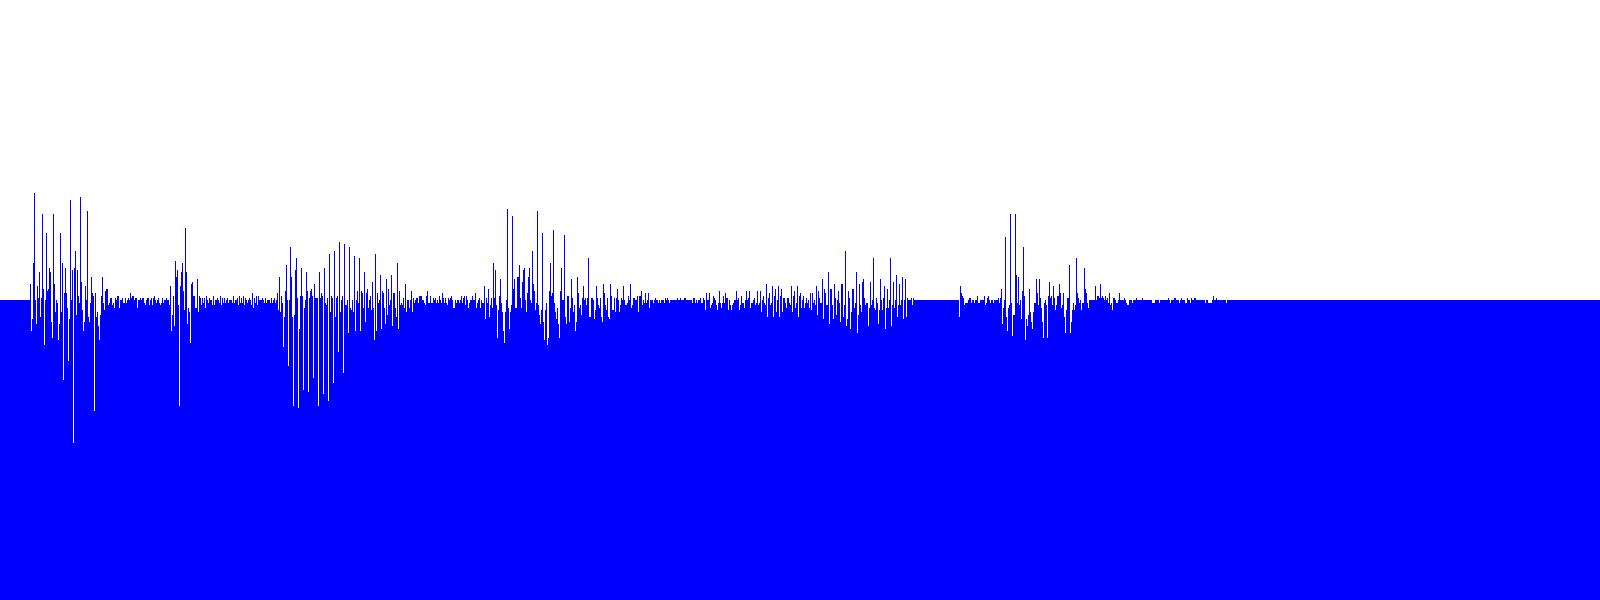
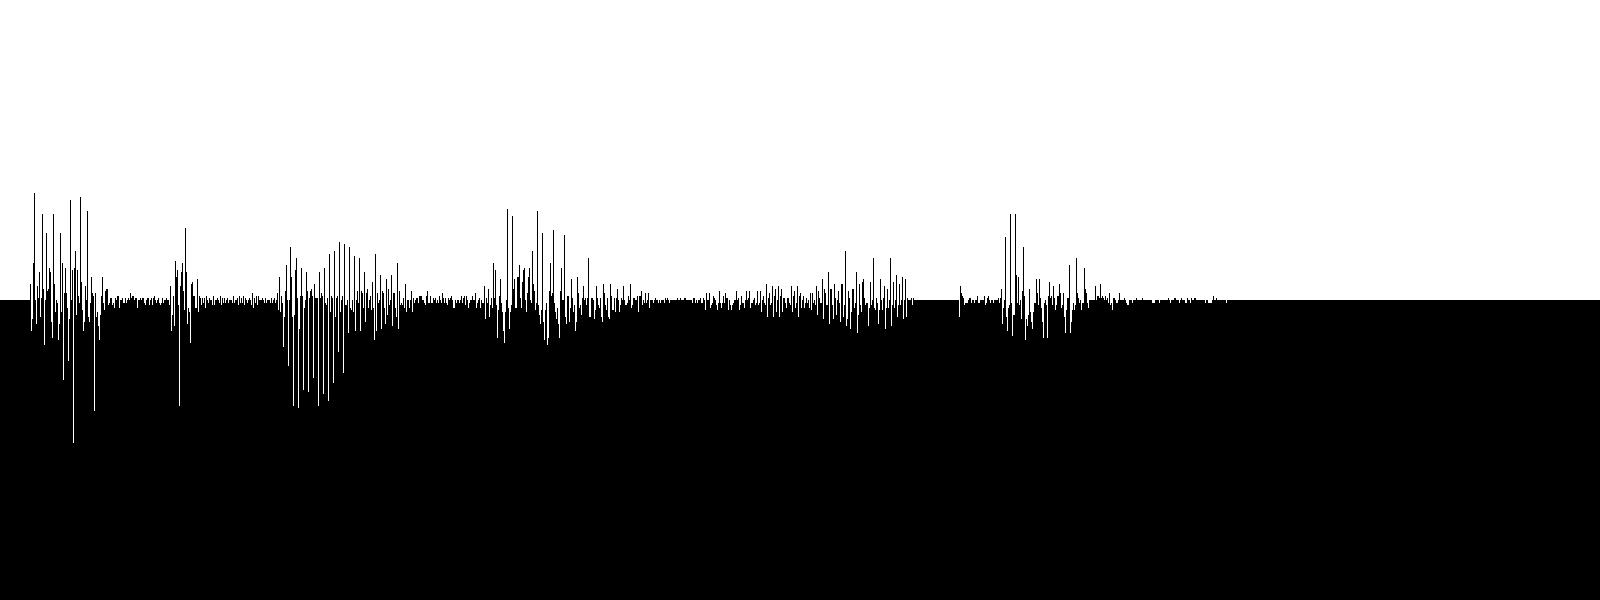
depiction colours

diff --git a/image_test.go b/image_test.go
@@ -16,7 +16,7 @@ func TestImagingSine(t *testing.T) {
 		panic(err)
 	}
 	defer file.Close()
-	png.Encode(file, Plan9PalettedImage{NewDepiction(Multiplex{Sine{UnitX}, Pulse{UnitX}},800,600)})
+	png.Encode(file, Plan9PalettedImage{NewDepiction(Multiplex{Sine{UnitX}, Pulse{UnitX}},800,600,color.RGBA{255,255,255,255},color.RGBA{0,0,0,0})})
 }
 func TestImaging(t *testing.T) {
 	stream, err := os.Open("M1F1-uint8-AFsp.wav")
@@ -24,9 +24,6 @@ func TestImaging(t *testing.T) {
 		panic(err)
 	}
 	noise, err := Decode(stream)
-	aboveColour = color.RGBA{0,0,255,255}
-	defer func(){aboveColour = color.RGBA{0,0,0,0}}()
-
 	defer stream.Close()
 	file, err := os.Create("./test output/M1F1-uint8-AFsp.jpeg")
 	if err != nil {
@@ -34,7 +31,7 @@ func TestImaging(t *testing.T) {
 	}
 	defer file.Close()
 //	png.Encode(wb, Plan9PalettedImage{NewFunctionImage(Pulse{UnitX*4}},3200,300)})   // first second
-	jpeg.Encode(file, Plan9PalettedImage{NewDepiction(noise[0],int(noise[0].MaxX()/UnitX*800),600)},nil)    // 800 pixels per second width
+	jpeg.Encode(file, Plan9PalettedImage{NewDepiction(noise[0],int(noise[0].MaxX()/UnitX*800),600,color.RGBA{255,255,255,255},color.RGBA{0,0,0,0})},nil)    // 800 pixels per second width
 }
 func TestI(t *testing.T) {
 	stream, err := os.Open("M1F1-uint8-AFsp.wav")
@@ -49,14 +46,82 @@ func TestI(t *testing.T) {
 	}
 	defer file.Close()
 	m := image.NewRGBA(image.Rect(0, -300, 800, 300))
-	belowColour = color.RGBA{255,0,0,255}
-	src:= Plan9PalettedImage{NewDepiction(noise[0],800,600)}
+	src:= Plan9PalettedImage{NewDepiction(noise[0],800,600,color.RGBA{255,0,0,255},color.RGBA{0,0,0,0})}
 	draw.Draw(m, m.Bounds(),src, src.Bounds().Min, draw.Over)
-	aboveColour = color.RGBA{0,0,0,0}
-	belowColour = color.RGBA{0,255,255,127}
-	src2:= Plan9PalettedImage{NewDepiction(noise[1],800,600)}
+	src2:= Plan9PalettedImage{NewDepiction(noise[1],800,600, color.RGBA{0,255,255,127},color.RGBA{0,0,0,0})}
 	draw.Draw(m, m.Bounds(),src2, src2.Bounds().Min, draw.Over)
 	jpeg.Encode(file, m,nil)
 }
 
+
+/*  Hal3 Sat Feb 27 18:00:58 GMT 2016 go version go1.5.1 linux/amd64
+=== RUN   TestNoise
+    23.94%   -52.49%     8.21%    -9.87%   -74.46%   -68.54%   -31.13%   -28.89%    11.03%    43.01%   -71.97%   -35.88%   -58.86%    47.80%    21.68%   -34.58%   -66.41%    10.38%     4.28%   -14.14%   -17.82%   -31.24%    22.84%   -21.90%    17.72%    23.27%    38.15%    65.67%   -72.58%   -66.54%   -33.93%     4.60%   -42.08%   -36.43%   -48.60%   -10.65%   -17.75%    25.50%    23.76%   -87.69%
+--- PASS: TestNoise (0.99s)
+=== RUN   TestBitPulses
+   100.00%   100.00%   100.00%     0.00%   100.00%   100.00%   100.00%     0.00%   100.00%   100.00%   100.00%     0.00%   100.00%   100.00%   100.00%     0.00%   100.00%   100.00%   100.00%     0.00%   100.00%   100.00%   100.00%     0.00%   100.00%   100.00%   100.00%     0.00%   100.00%   100.00%   100.00%     0.00%     0.00%     0.00%     0.00%     0.00%     0.00%     0.00%     0.00%     0.00%
+--- PASS: TestBitPulses (0.00s)
+=== RUN   TestSaveLoad
+signals.Multiplex{signals.Sine{Cycle:1000000}, signals.Constant{Constant:4611686018427387392}}
+--- PASS: TestSaveLoad (0.00s)
+=== RUN   TestSaveWav
+--- PASS: TestSaveWav (0.04s)
+=== RUN   TestLoad
+1
+--- PASS: TestLoad (0.01s)
+=== RUN   TestLoadChannels
+2
+--- PASS: TestLoadChannels (0.07s)
+=== RUN   TestStackPCMs
+--- PASS: TestStackPCMs (0.51s)
+=== RUN   TestMultiplexTones
+--- PASS: TestMultiplexTones (0.17s)
+=== RUN   TestSaveLoadSave
+--- PASS: TestSaveLoadSave (0.21s)
+=== RUN   TestPiping
+--- PASS: TestPiping (0.02s)
+=== RUN   TestImagingSine
+--- PASS: TestImagingSine (0.30s)
+=== RUN   TestImaging
+--- PASS: TestImaging (0.18s)
+=== RUN   TestI
+--- PASS: TestI (0.18s)
+=== RUN   TestSquare
+   100.00%   100.00%   100.00%   100.00%   100.00%  -100.00%  -100.00%  -100.00%  -100.00%  -100.00%   100.00%   100.00%   100.00%   100.00%   100.00%  -100.00%  -100.00%  -100.00%  -100.00%  -100.00%
+--- PASS: TestSquare (0.00s)
+=== RUN   TestPulse
+   100.00%   100.00%   100.00%   100.00%   100.00%   100.00%   100.00%   100.00%   100.00%   100.00%   100.00%     0.00%     0.00%     0.00%     0.00%     0.00%     0.00%     0.00%     0.00%     0.00%
+--- PASS: TestPulse (0.00s)
+=== RUN   TestRamp
+     0.00%    10.00%    20.00%    30.00%    40.00%    50.00%    60.00%    70.00%    80.00%    90.00%   100.00%   100.00%   100.00%   100.00%   100.00%   100.00%   100.00%   100.00%   100.00%   100.00%
+   100.00%    90.00%    80.00%    70.00%    60.00%    50.00%    40.00%    30.00%    20.00%    10.00%     0.00%     0.00%     0.00%     0.00%     0.00%     0.00%     0.00%     0.00%     0.00%     0.00%
+--- PASS: TestRamp (0.00s)
+=== RUN   TestSine
+     0.00%    38.27%    70.71%    92.39%   100.00%    92.39%    70.71%    38.27%     0.00%   -38.27%   -70.71%   -92.39%  -100.00%   -92.39%   -70.71%   -38.27%    -0.00%    38.27%    70.71%    92.39%   100.00%    92.39%    70.71%    38.27%     0.00%   -38.27%   -70.71%   -92.39%  -100.00%   -92.39%   -70.71%   -38.27%
+--- PASS: TestSine (0.00s)
+=== RUN   TestSigmoid
+    11.92%    13.01%    14.19%    15.45%    16.80%    18.24%    19.78%    21.42%    23.15%    24.97%    26.89%    28.91%    31.00%    33.18%    35.43%    37.75%    40.13%    42.56%    45.02%    47.50%    50.00%    52.50%    54.98%    57.44%    59.87%    62.25%    64.57%    66.82%    69.00%    71.09%    73.11%    75.03%    76.85%    78.58%    80.22%    81.76%    83.20%    84.55%    85.81%    86.99%
+--- PASS: TestSigmoid (0.00s)
+=== RUN   TestADSREnvelope
+     0.00%    10.00%    20.00%    30.00%    40.00%    50.00%    60.00%    70.00%    80.00%    90.00%   100.00%    95.00%    90.00%    85.00%    80.00%    75.00%    70.00%    65.00%    60.00%    55.00%    50.00%    50.00%    50.00%    50.00%    50.00%    50.00%    50.00%    50.00%    50.00%    50.00%    50.00%    45.00%    40.00%    35.00%    30.00%    25.00%    20.00%    15.00%    10.00%     5.00%     0.00%     0.00%     0.00%     0.00%     0.00%     0.00%     0.00%     0.00%     0.00%     0.00%
+--- PASS: TestADSREnvelope (0.00s)
+=== RUN   TestReflect
+   100.00%    90.00%    80.00%    70.00%    60.00%    50.00%    40.00%    30.00%    20.00%    10.00%     0.00%     5.00%    10.00%    15.00%    20.00%    25.00%    30.00%    35.00%    40.00%    45.00%    50.00%    50.00%    50.00%    50.00%    50.00%    50.00%    50.00%    50.00%    50.00%    50.00%    50.00%    55.00%    60.00%    65.00%    70.00%    75.00%    80.00%    85.00%    90.00%    95.00%   100.00%   100.00%   100.00%   100.00%   100.00%   100.00%   100.00%   100.00%   100.00%   100.00%
+--- PASS: TestReflect (0.00s)
+=== RUN   TestMulti
+     0.00%     0.79%     3.12%     6.90%    11.98%    18.16%    25.20%    32.81%    40.68%    48.48%    55.90%    62.61%    68.32%    72.75%    75.69%    76.94%    76.40%    73.99%    69.72%    63.65%    55.90%    46.66%    36.16%    24.67%    12.51%     0.00%   -12.51%   -24.67%   -36.16%   -46.66%   -55.90%   -63.65%   -69.72%   -73.99%   -76.40%   -76.94%   -75.69%   -72.75%   -68.32%   -62.61%   -55.90%   -48.48%   -40.68%   -32.81%   -25.20%   -18.16%   -11.98%    -6.90%    -3.12%    -0.79%
+--- PASS: TestMulti (0.00s)
+=== RUN   TestStack
+     0.00%     9.41%    18.70%    27.78%    36.52%    44.84%    52.63%    59.81%    66.30%    72.03%    76.94%    80.99%    84.13%    86.35%    87.64%    88.00%    87.46%    86.03%    83.77%    80.72%    76.94%    72.52%    67.52%    62.04%    56.17%    50.00%    43.63%    37.17%    30.71%    24.34%    18.16%    12.26%     6.72%     1.60%    -3.02%    -7.10%   -10.59%   -13.45%   -15.67%   -17.24%   -18.16%   -18.45%   -18.13%   -17.24%   -15.82%   -13.94%   -11.65%    -9.04%    -6.17%    -3.13%
+--- PASS: TestStack (0.00s)
+=== RUN   TestTrigger
+    67.00%    77.00%    87.00%    97.00%    96.50%    91.50%    86.50%    81.50%    76.50%    71.50%    66.50%    61.50%    56.50%    51.50%    50.00%    50.00%    50.00%    50.00%    50.00%    50.00%    50.00%    50.00%    50.00%    50.00%    46.50%    41.50%    36.50%    31.50%    26.50%    21.50%    16.50%    11.50%     6.50%     1.50%     0.00%     0.00%     0.00%     0.00%     0.00%     0.00%     0.00%     0.00%     0.00%     0.00%     0.00%     0.00%     0.00%     0.00%     0.00%     0.00%
+     0.67s
+    66.50%    61.50%    56.50%    51.50%    50.00%    50.00%    50.00%    50.00%    50.00%    50.00%    50.00%    50.00%    50.00%    50.00%    46.50%    41.50%    36.50%    31.50%    26.50%    21.50%    16.50%    11.50%     6.50%     1.50%     0.00%     0.00%     0.00%     0.00%     0.00%     0.00%     0.00%     0.00%     0.00%     0.00%     0.00%     0.00%     0.00%     0.00%     0.00%     0.00%     0.00%     0.00%     0.00%     0.00%     0.00%     0.00%     0.00%     0.00%     0.00%     0.00%
+     1.67s
+
+--- PASS: TestTrigger (0.01s)
+PASS
+ok  	_/home/simon/Dropbox/github/working/signals	2.761s
+Sat Feb 27 18:01:03 GMT 2016 */
 

diff --git a/image.go b/image.go
@@ -6,13 +6,11 @@ import (
 	"image/color/palette"
 )
 
-
-var aboveColour,belowColour = color.RGBA{0,0,0,0},color.RGBA{255,255,255,255}
-
 // Depiction of a LimitedFunction   
 type Depiction struct{
 	LimitedFunction
 	size image.Rectangle
+	belowColour,aboveColour  color.Color
 	yScale y  // optimisation; small, a cache because this can't change for the same size, which is not exposed. 
 }
 
@@ -21,15 +19,15 @@ func (i Depiction) Bounds() image.Rectangle{
 }
 
 // makes an image of a LimitedSignal, scaled to maxx x maxy pixels.
-func NewDepiction(s LimitedFunction,maxx,maxy int) Depiction{
-	return Depiction{s,image.Rect(0,-maxy/2,maxx,maxy/2),Maxy/y(maxy/2)}
+func NewDepiction(s LimitedFunction,maxx,maxy int, c1,c2 color.Color) Depiction{
+	return Depiction{s,image.Rect(0,-maxy/2,maxx,maxy/2), c1,c2,Maxy/y(maxy/2)}
 }
 
 func (i Depiction) At(xp, yp int) color.Color{
 	if i.Call( x(xp) * i.MaxX() / x(i.size.Max.X)-x(i.size.Min.X))<= i.yScale*y(yp)-y(i.size.Min.Y) { 
-		return aboveColour
+		return i.aboveColour
 	}
-	return belowColour		
+	return i.belowColour		
 }
 
 
@@ -60,7 +58,4 @@ type Plan9PalettedImage struct {
 }
 
 func (i Plan9PalettedImage) ColorModel() color.Model { return color.Palette(palette.Plan9) }
-/*  Hal3 Fri Feb 26 21:39:58 GMT 2016 go version go1.5.1 linux/amd64
-FAIL	_/home/simon/Dropbox/github/working/signals [build failed]
-Fri Feb 26 21:39:59 GMT 2016 */
 
